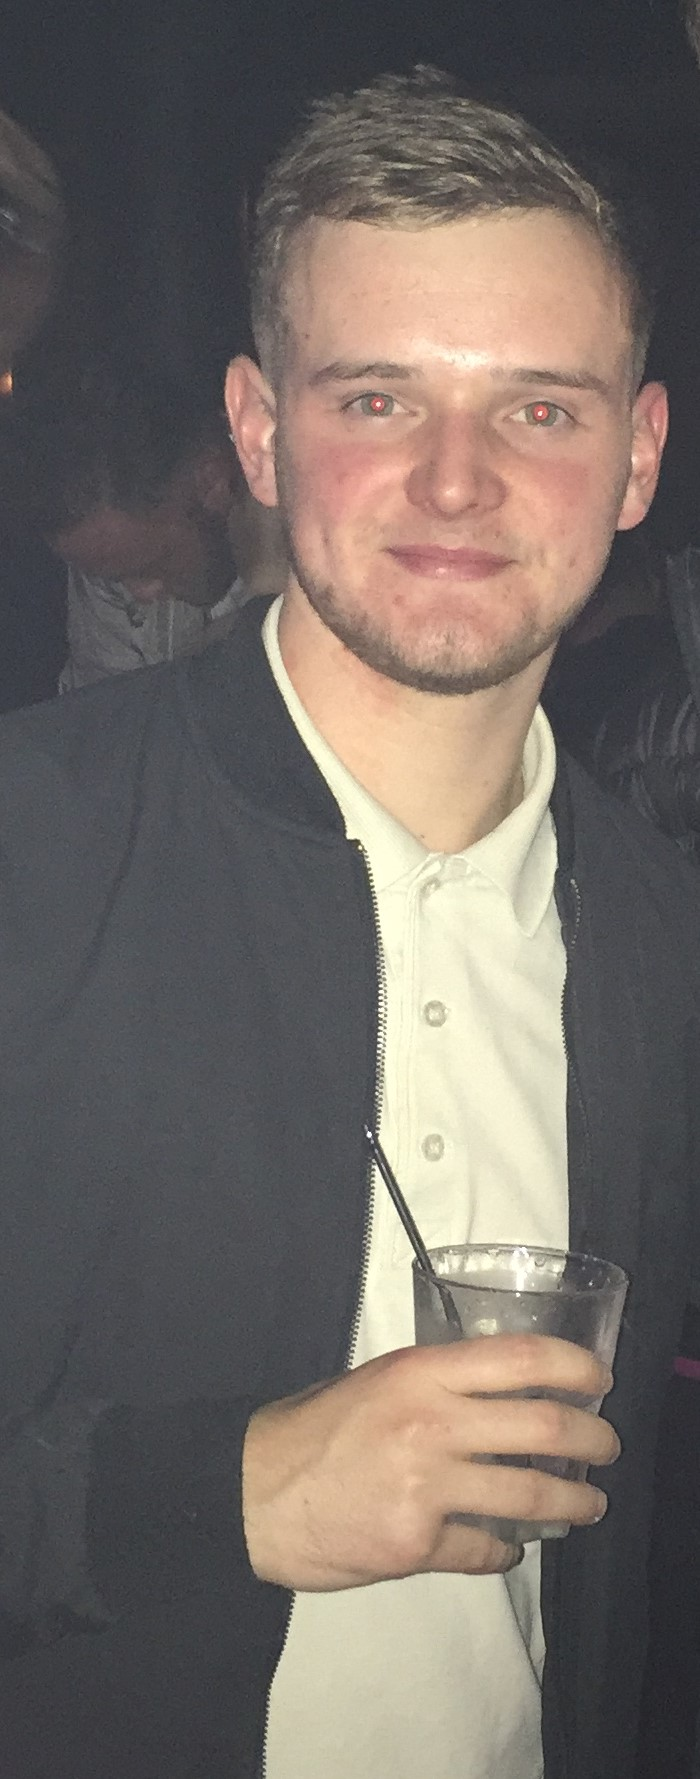
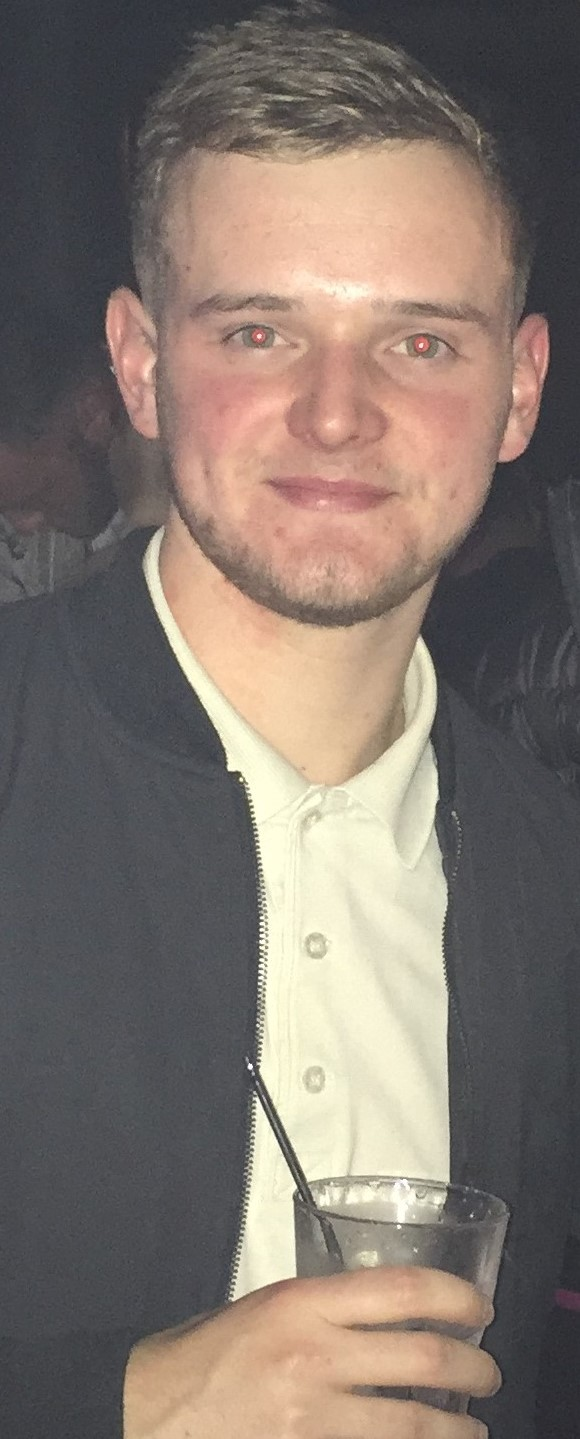
worked on pages, added family page, added images

diff --git a/cv.html b/cv.html
@@ -1,83 +1,65 @@
-  <!DOCTYPE html>
-  <html lang="en" dir="ltr">
-    <head>
-      <meta charset="utf-8">
-      <title>CV</title>
-      <link rel="stylesheet" href="css/cv.css">
-      <link rel="stylesheet" href="Atomic Design/master.css">
-      <!--Link to fontawesome's style sheet used for my fonts etc  -->
-      <link rel="stylesheet" href="https://use.fontawesome.com/releases/v5.3.1/css/all.css" integrity="sha384-mzrmE5qonljUremFsqc01SB46JvROS7bZs3IO2EmfFsd15uHvIt+Y8vEf7N7fWAU" crossorigin="anonymous">
+<!DOCTYPE html>
+<html lang="en" dir="ltr">
 
-    </head>
-    <body>
-      <header>
+<head>
+  <meta charset="utf-8">
+  <title>CV</title>
+  <link rel="stylesheet" href="css/cv.css">
+  <link rel="stylesheet" href="Atomic Design/master.css">
+  <!--Link to fontawesome's style sheet used for my fonts etc  -->
+  <link rel="stylesheet" href="https://use.fontawesome.com/releases/v5.3.1/css/all.css" integrity="sha384-mzrmE5qonljUremFsqc01SB46JvROS7bZs3IO2EmfFsd15uHvIt+Y8vEf7N7fWAU" crossorigin="anonymous">
 
-        <nav>
-          <h1 id=mainheading>Euan Taylor</h1>
-          <ul class="current">
+</head>
 
-            <li><a href="home.html">Homepage</a></li>
-            <li><a href="cv.html">CV</a></li>
-            <li><a href="project.html">Projects</a></li>
-            <li><a href="contact.html">Contact</a></li>
-          </ul>
-        </nav>
-        <h2>CV</h2>
-      </header>
-      <section id="education_historymain">
+<body>
+  <header>
 
-      <h3>Education History</h3>
+    <nav>
 
-      <h3>University of Dundee</h3>
-      <p>Student - 2018 Onwards</p>
-      <h3>Gryffe High School</h3>
-      <p>Student - 2012 - 2018</p>
-      <h3>Houston Primary School</h3>
-      <p>Pupil - 2005 - 2012</p>
+      <ul class="current">
+        <h1 id=mainheading>Euan Taylor</h1>
+        <li><a href="home.html">Homepage</a></li>
+        <li><a href="cv.html">CV</a></li>
+        <li><a href="project.html">Projects</a></li>
+        <li><a href="family.html">Family</a></li>
+        <li><a href="contact.html">Contact</a></li>
+      </ul>
+    </nav>
+    <h2>CV</h2>
+  </header>
+  <section id="cvmainSection">
 
-      <h3>Highers</h3>
-      <p>Highers achived in:</p>
+    <h3>Education History</h3>
 
-        <p>Human Biology - A</p>
-        <p>Buisness Management - A</p>
-        <p>Mathematics - B</p>
-        <p>English - B</p>
-        <p>Geography - B</p>
-        <p>Computing Science - C</p>
-
-
-
-
+    <h3>University of Dundee</h3>
+    <p>I started as a student of Dundee University in September of 2018 and I am currently still preesent at this Uni.</p>
+    <h3>Gryffe High School</h3>
+    <p>I was a pupil at gryffe high schoo from 2012 to 2018 and over the course of the years i achieved some academic success. The highers i gained were:</p>
+      <p> Human Biology, Buisness Management, Mathematics, English, Geography and Computing Science.</p>
+    <h3>Houston Primary School</h3>
+    <p>I was a pupil in Houston Primary School from 2005 to 2012.</p>
 
       </section>
 
-      <section id=education_historyphoto>
-          <img src="Website Photos/website photo 2.jpg" alt="image of books " style="width:500px;height:500px;">
+        <section id=cvsideSection>
+    <h3>Employment History</h3>
+    <h3>Tesco Linwood</h3>
+    <p> I was a grocery team memeber from May 2018 Onwards. This job involved filling the shelves in all the grocery aisle. This could range from juices to canned veg and cereal. I really enjoy the work and love working witht eh public and local community.</p>
+    <p>Before i was part of the grocery team I was a customer assistant (checkouts). This was from Nov 2017 to May 2018. My role was to greet and serve cusomers at the checkouts and be on nhand for any questions or queries they might have. I enjoyed this as you got to meet and speak with alot of interesting people and this really increased my speaking confidence.</p>
+    <h3>Footasylum Braehead</h3>
+    <p>I was a customer assistant in the Braehead store from Aug 2017 to Nov 2017. This job was good as it was in a store which I reguarly visited myself meaning I had alot of knowledge on alot of the product we sold. This job only lasted a few weeks as I was offered a job closer to home and my managercat the time was happy to let me leave for a more local job.</p>
 
-      </section>
+    <img id= tesco src="Website Photos/website photo 3.jpg" alt="image of tesco " style="width:400px;height:400px;">
 
-      <section id="employment_historymain">
-
-        <h3>Employment History</h3>
-        <h3>Tesco Linwood</h3>
-        <p>Grocery Team Memeber - May 2018 Onwards</p>
-        <p>Customer Assistant (Checkouts) - Nov 2017 - May 2018</p>
-
-        <h3>Footasylum Braehead</h3>
-        <p>Customer Assistant - Aug 2017 - Nov 2017</p>
+  </section>
 
 
 
 
 
-      </section>
-
-      <section id=employment_historyphoto>
-
-        <img src="Website Photos/website photo 3.jpg" alt="image of tesco " style="width:400px;height:400px;">
-
-      </section>
 
 
-    </body>
-  </html>
+
+</body>
+
+</html>

diff --git a/home.html b/home.html
@@ -14,12 +14,13 @@
   <header>
 
     <nav>
-      <h1 id=mainheading>Euan Taylor</h1>
-      <ul class="current">
 
+      <ul class="current">
+        <h1 id=mainheading>Euan Taylor</h1>
         <li><a href="home.html">Homepage</a></li>
         <li><a href="cv.html">CV</a></li>
         <li><a href="project.html">Projects</a></li>
+        <li><a href="family.html">Family</a></li>
         <li><a href="contact.html">Contact</a></li>
       </ul>
     </nav>
@@ -28,11 +29,6 @@
 
 
 
-  <section id="sideContent">
-    <div class="contentBox">
-      <img src="Website Photos/Website photo 1.jpg" alt="image of euan " style="width:360px;height:650px;">
-
-  </section>
   <section id="mainContent">
     <div class="contentBox">
 
@@ -44,8 +40,16 @@
       <p>AC21011 - Creative Interactions</p>
 
 
-      <p>I started off doing the Computing Science course but the maths modules proved to be very difficult for me so I decided to switch to the Applied Computing course as it better suited me. </p>
+      <p>I started off doing the Computing Science course but the maths modules proved to be very difficult for me so I decided to switch to the Applied Computing course as it better suited me. I am enjoying the social aspect of University aswell as the academic side, with me having spent many nights in the union and spending my SAAS away. </p>
   </section>
+
+  <section id="sideContent">
+    <div class="contentBox">
+      <img id=euanImg src="Website Photos/Website photo 1.jpg" alt="image of euan " style="width:280px;height:550px;">
+
+  </section>
+
+
 
 
 

diff --git a/contact.html b/contact.html
@@ -9,17 +9,35 @@
     <link rel="stylesheet" href="https://use.fontawesome.com/releases/v5.3.1/css/all.css" integrity="sha384-mzrmE5qonljUremFsqc01SB46JvROS7bZs3IO2EmfFsd15uHvIt+Y8vEf7N7fWAU" crossorigin="anonymous">
   </head>
   <body>
-    <header>
-      <h2>Contact Me</h2>
-    </header>
-    <section id="contact_info">
 
+      <header>
+
+        <nav>
+
+          <ul class="current">
+            <h1 id=mainheading>Euan Taylor</h1>
+            <li><a href="home.html">Homepage</a></li>
+            <li><a href="cv.html">CV</a></li>
+            <li><a href="project.html">Projects</a></li>
+            <li><a href="family.html">Family</a></li>
+            <li><a href="contact.html">Contact</a></li>
+          </ul>
+        </nav>
+        <h2>Contact Page</h2>
+      </header>
+
+    <section id="contact_info">
+      <div class="container">
+
+
+      <img id=euanImg src="Website Photos/Website photo 4.jpg" alt="image of euan " style="width:280px;height:340px;">
+      <h3>Contact Details</h3>
     <p>Phone Number: 07513405701</p>
-    <p>email: eqtaylor@dundee.ac.uk</p>
+    <p>Email: eqtaylor@dundee.ac.uk</p>
     <p>Address: 46, Seabraes Court, Dundee</p>
 
 
     </section>
-
+</div>
   </body>
 </html>

diff --git a/family.html b/family.html
@@ -2,8 +2,8 @@
 <html lang="en" dir="ltr">
   <head>
     <meta charset="utf-8">
-    <title>Projects</title>
-    <link rel="stylesheet" href="css/project.css">
+    <title>Family</title>
+    <link rel="stylesheet" href="css/family.css">
     <link rel="stylesheet" href="Atomic Design/master.css">
     <!--Link to fontawesome's style sheet used for my fonts etc  -->
     <link rel="stylesheet" href="https://use.fontawesome.com/releases/v5.3.1/css/all.css" integrity="sha384-mzrmE5qonljUremFsqc01SB46JvROS7bZs3IO2EmfFsd15uHvIt+Y8vEf7N7fWAU" crossorigin="anonymous">
@@ -22,7 +22,7 @@
           <li><a href="contact.html">Contact</a></li>
         </ul>
       </nav>
-      <h2>Projects</h2>
+      <h2>Family</h2>
     </header>
 
   </body>

diff --git a/Atomic Design/master.css b/Atomic Design/master.css
@@ -5,14 +5,19 @@
 
 
 /*body css  */
+
+
 body {
-  max-width: 1200px;
+  max-width: 900px;
   margin: 0 auto;
   background-color: #F7F7FF;
 }
+header{
+  width: 100%;
+}
 
 h1 {
-  font-size: 60px;
+  font-size: 55px;
   font-family: 'Quattrocento Sans', sans-serif;
   font-weight: 400;
   color: #272635;
@@ -35,7 +40,7 @@ h3 {
 p {
   font-family: 'Quattrocento Sans', sans-serif;
   color: #5F5B6B;
-  font-size: 23px;
+  font-size: 21px;
 }
 
 /* CSS for the navigation bar*/
@@ -160,4 +165,6 @@ header img {
 #mainheading{
   background-color: #272635;
   color: #F7F7FF;
+  margin: 0;
+  font-size: 64px;
 }

diff --git a/css/cv.css b/css/cv.css
@@ -1,9 +1,15 @@
 @import url('https://fonts.googleapis.com/css?family=Quattrocento+Sans:400,700|Quattrocento:400,700');
 
-#education_historymain{
+#cvmainSection{
   background-color:#F7F7FF ;
   width:50%;
   float: left;
+
+}
+#cvsideSection{
+  background-color:#F7F7FF ;
+  width:50%;
+  float: right;
 
 }
 #education_historyphoto{
@@ -12,16 +18,9 @@
   float: right;
 
 }
-#employment_historymain{
-  background-color:#F7F7FF ;
-  width:50%;
-  float: left;
-
-}
 #employment_historyphoto{
   background-color:#F7F7FF ;
   width:50%;
-  float: left;
+  float: right;
   height: 200px;
   }
-}

diff --git a/css/home.css b/css/home.css
@@ -4,15 +4,19 @@
 
 #mainContent{
 background-color:#F7F7FF ;
-width: 50%;
+width: 40%;
 float: left;
 height: 200px;
 
 }
 #sideContent{
 background-color:#F7F7FF;
-width: 30%;
+width: 50%;
 float: right;
 height: 200px;
 
+}
+
+#euanImg{
+  border-radius: 8px;
 }

diff --git a/css/contact.css b/css/contact.css
@@ -1,0 +1,10 @@
+#euanImg{
+  border-radius: 8px;
+}
+#contact_info{
+  text-align: center;
+}
+
+h2{
+  margin-bottom: 5px;
+}

diff --git a/README.md b/README.md
@@ -1,3 +1,4 @@
 # AC11002---Assigment-2
 * Repository for second assignment in WWW authoring module.
 * Atomic design folder - <a href="Atomic design">Creating an HTML CV</a>
+* 
